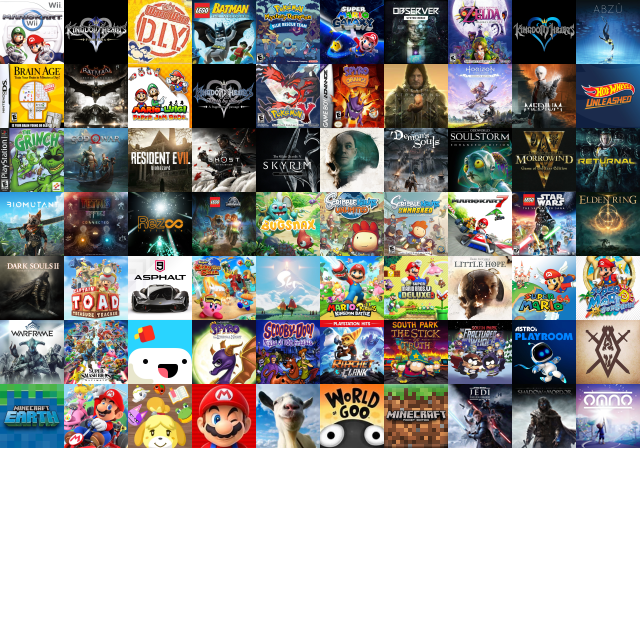
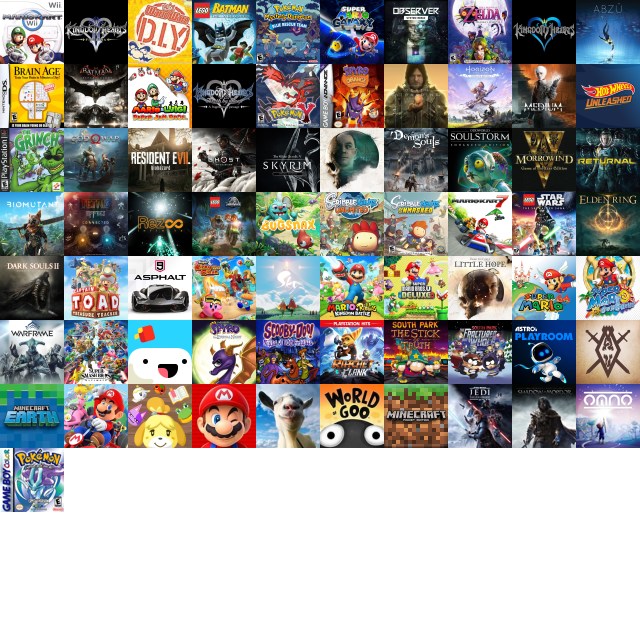
Update game records
Added Pokemon Crystal for GBC and (finally) completed Elden Ring

Changed region(s): [[0.0, 0.6875, 0.125, 0.8125]]

diff --git a/resources/css/game-records.css b/resources/css/game-records.css
@@ -1,1 +1,1 @@
-div.gamecard-container{display:flex;flex-direction:row;flex-wrap:wrap;align-items:center}div.gamecard-outer>img{height:64px;width:64px;box-shadow:0 0 4px #000}span.gamecard-title{font-size:16px;font-weight:700;padding-top:8px;text-align:center}span.gamecard-title>img{margin-left:4px}span.gamecard-subtext{font-size:12px;font-style:italic}div.gamecard{width:180px;padding:16px 16px 8px 16px;margin-right:24px;margin-bottom:24px;height:fit-content}div.gamecard-inner{justify-content:center;margin-left:8px}div.gamecard,div.gamecard-inner{flex-direction:column}div.gamecard-outer,span.gamecard-rating{flex-direction:row}a.qn-link{margin-right:10px}div.stat-container{display:flex;flex-direction:row}div.stat{margin-right:28px}@media screen and (max-width:1072px){div.stat-container{flex-direction:column}}img#i000203{background:url(/resources/png/icons.png) -192px -128px}img#i000201{background:url(/resources/png/icons.png) -64px -128px}img#i000307{background:url(/resources/png/icons.png) -448px -192px}img#i010009{background:url(/resources/png/icons2.png) -576px 0px}img#i010602{background:url(/resources/png/icons2.png) -128px -384px}img#i010402{background:url(/resources/png/icons2.png) -128px -256px}img#i010508{background:url(/resources/png/icons2.png) -512px -320px}img#i000601{background:url(/resources/png/icons.png) -64px -384px}img#i010101{background:url(/resources/png/icons2.png) -64px -64px}img#i010300{background:url(/resources/png/icons2.png) 0px -192px}img#i000000{background:url(/resources/png/icons.png) 0px 0px}img#i010100{background:url(/resources/png/icons2.png) 0px -64px}img#i000400{background:url(/resources/png/icons.png) 0px -256px}img#i010304{background:url(/resources/png/icons2.png) -256px -192px}img#i010401{background:url(/resources/png/icons2.png) -64px -256px}img#i000605{background:url(/resources/png/icons.png) -320px -384px}img#i000309{background:url(/resources/png/icons.png) -576px -192px}img#i000607{background:url(/resources/png/icons.png) -448px -384px}img#i000800{background:url(/resources/png/icons.png) 0px -512px}img#i000509{background:url(/resources/png/icons.png) -576px -320px}img#i000006{background:url(/resources/png/icons.png) -384px 0px}img#i010400{background:url(/resources/png/icons2.png) 0px -256px}img#i010106{background:url(/resources/png/icons2.png) -384px -64px}img#i010206{background:url(/resources/png/icons2.png) -384px -128px}img#i000102{background:url(/resources/png/icons.png) -128px -64px}img#i000305{background:url(/resources/png/icons.png) -320px -192px}img#i000507{background:url(/resources/png/icons.png) -448px -320px}img#i010309{background:url(/resources/png/icons2.png) -576px -192px}img#i000909{background:url(/resources/png/icons.png) -576px -576px}img#i000903{background:url(/resources/png/icons.png) -192px -576px}img#i000008{background:url(/resources/png/icons.png) -512px 0px}img#i010502{background:url(/resources/png/icons2.png) -128px -320px}img#i000205{background:url(/resources/png/icons.png) -320px -128px}img#i000708{background:url(/resources/png/icons.png) -512px -448px}img#i010203{background:url(/resources/png/icons2.png) -192px -128px}img#i010604{background:url(/resources/png/icons2.png) -256px -384px}img#i010201{background:url(/resources/png/icons2.png) -64px -128px}img#i000402{background:url(/resources/png/icons.png) -128px -256px}img#i000100{background:url(/resources/png/icons.png) 0px -64px}img#i000709{background:url(/resources/png/icons.png) -576px -448px}img#i010107{background:url(/resources/png/icons2.png) -448px -64px}img#i010109{background:url(/resources/png/icons2.png) -576px -64px}img#i000405{background:url(/resources/png/icons.png) -320px -256px}img#i000702{background:url(/resources/png/icons.png) -128px -448px}img#i010008{background:url(/resources/png/icons2.png) -512px 0px}img#i010103{background:url(/resources/png/icons2.png) -192px -64px}img#i000300{background:url(/resources/png/icons.png) 0px -192px}img#i000306{background:url(/resources/png/icons.png) -384px -192px}img#i000902{background:url(/resources/png/icons.png) -128px -576px}img#i000108{background:url(/resources/png/icons.png) -512px -64px}img#i000807{background:url(/resources/png/icons.png) -448px -512px}img#i000007{background:url(/resources/png/icons.png) -448px 0px}img#i010001{background:url(/resources/png/icons2.png) -64px 0px}img#i000506{background:url(/resources/png/icons.png) -384px -320px}img#i000609{background:url(/resources/png/icons.png) -576px -384px}img#i000404{background:url(/resources/png/icons.png) -256px -256px}img#i000107{background:url(/resources/png/icons.png) -448px -64px}img#i010003{background:url(/resources/png/icons2.png) -192px 0px}img#i000900{background:url(/resources/png/icons.png) 0px -576px}img#i000901{background:url(/resources/png/icons.png) -64px -576px}img#i000207{background:url(/resources/png/icons.png) -448px -128px}img#i010303{background:url(/resources/png/icons2.png) -192px -192px}img#i000004{background:url(/resources/png/icons.png) -256px 0px}img#i000500{background:url(/resources/png/icons.png) 0px -320px}img#i000706{background:url(/resources/png/icons.png) -384px -448px}img#i010308{background:url(/resources/png/icons2.png) -512px -192px}img#i000804{background:url(/resources/png/icons.png) -256px -512px}img#i000905{background:url(/resources/png/icons.png) -320px -576px}img#i000805{background:url(/resources/png/icons.png) -320px -512px}img#i000508{background:url(/resources/png/icons.png) -512px -320px}img#i010102{background:url(/resources/png/icons2.png) -128px -64px}img#i010405{background:url(/resources/png/icons2.png) -320px -256px}img#i010307{background:url(/resources/png/icons2.png) -448px -192px}img#i000704{background:url(/resources/png/icons.png) -256px -448px}img#i000200{background:url(/resources/png/icons.png) 0px -128px}img#i010601{background:url(/resources/png/icons2.png) -64px -384px}img#i010000{background:url(/resources/png/icons2.png) 0px 0px}img#i000105{background:url(/resources/png/icons.png) -320px -64px}img#i000908{background:url(/resources/png/icons.png) -512px -576px}img#i000403{background:url(/resources/png/icons.png) -192px -256px}img#i010608{background:url(/resources/png/icons2.png) -512px -384px}img#i000209{background:url(/resources/png/icons.png) -576px -128px}img#i010600{background:url(/resources/png/icons2.png) 0px -384px}img#i010606{background:url(/resources/png/icons2.png) -384px -384px}img#i000003{background:url(/resources/png/icons.png) -192px 0px}img#i000005{background:url(/resources/png/icons.png) -320px 0px}img#i000409{background:url(/resources/png/icons.png) -576px -256px}img#i010406{background:url(/resources/png/icons2.png) -384px -256px}img#i000701{background:url(/resources/png/icons.png) -64px -448px}img#i000604{background:url(/resources/png/icons.png) -256px -384px}img#i010006{background:url(/resources/png/icons2.png) -384px 0px}img#i010207{background:url(/resources/png/icons2.png) -448px -128px}img#i010609{background:url(/resources/png/icons2.png) -576px -384px}img#i000703{background:url(/resources/png/icons.png) -192px -448px}img#i000504{background:url(/resources/png/icons.png) -256px -320px}img#i000501{background:url(/resources/png/icons.png) -64px -320px}img#i000002{background:url(/resources/png/icons.png) -128px 0px}img#i000606{background:url(/resources/png/icons.png) -384px -384px}img#i010004{background:url(/resources/png/icons2.png) -256px 0px}img#i010104{background:url(/resources/png/icons2.png) -256px -64px}img#i000009{background:url(/resources/png/icons.png) -576px 0px}img#i000801{background:url(/resources/png/icons.png) -64px -512px}img#i010505{background:url(/resources/png/icons2.png) -320px -320px}img#i000808{background:url(/resources/png/icons.png) -512px -512px}img#i010202{background:url(/resources/png/icons2.png) -128px -128px}img#i000503{background:url(/resources/png/icons.png) -192px -320px}img#i010209{background:url(/resources/png/icons2.png) -576px -128px}img#i010302{background:url(/resources/png/icons2.png) -128px -192px}img#i000406{background:url(/resources/png/icons.png) -384px -256px}img#i010504{background:url(/resources/png/icons2.png) -256px -320px}img#i000705{background:url(/resources/png/icons.png) -320px -448px}img#i010305{background:url(/resources/png/icons2.png) -320px -192px}img#i010306{background:url(/resources/png/icons2.png) -384px -192px}img#i000904{background:url(/resources/png/icons.png) -256px -576px}img#i010404{background:url(/resources/png/icons2.png) -256px -256px}img#i000301{background:url(/resources/png/icons.png) -64px -192px}img#i010507{background:url(/resources/png/icons2.png) -448px -320px}img#i010506{background:url(/resources/png/icons2.png) -384px -320px}img#i000505{background:url(/resources/png/icons.png) -320px -320px}img#i010105{background:url(/resources/png/icons2.png) -320px -64px}img#i000806{background:url(/resources/png/icons.png) -384px -512px}img#i000202{background:url(/resources/png/icons.png) -128px -128px}img#i000407{background:url(/resources/png/icons.png) -448px -256px}img#i000907{background:url(/resources/png/icons.png) -448px -576px}img#i010607{background:url(/resources/png/icons2.png) -448px -384px}img#i000602{background:url(/resources/png/icons.png) -128px -384px}img#i010403{background:url(/resources/png/icons2.png) -192px -256px}img#i010408{background:url(/resources/png/icons2.png) -512px -256px}img#i000206{background:url(/resources/png/icons.png) -384px -128px}img#i010005{background:url(/resources/png/icons2.png) -320px 0px}img#i000802{background:url(/resources/png/icons.png) -128px -512px}img#i000001{background:url(/resources/png/icons.png) -64px 0px}img#i010603{background:url(/resources/png/icons2.png) -192px -384px}img#i010409{background:url(/resources/png/icons2.png) -576px -256px}img#i000603{background:url(/resources/png/icons.png) -192px -384px}img#i000809{background:url(/resources/png/icons.png) -576px -512px}img#i010501{background:url(/resources/png/icons2.png) -64px -320px}img#i010301{background:url(/resources/png/icons2.png) -64px -192px}img#i000204{background:url(/resources/png/icons.png) -256px -128px}img#i010407{background:url(/resources/png/icons2.png) -448px -256px}img#i010205{background:url(/resources/png/icons2.png) -320px -128px}img#i010208{background:url(/resources/png/icons2.png) -512px -128px}img#i010204{background:url(/resources/png/icons2.png) -256px -128px}img#i010509{background:url(/resources/png/icons2.png) -576px -320px}img#i010200{background:url(/resources/png/icons2.png) 0px -128px}img#i000308{background:url(/resources/png/icons.png) -512px -192px}img#i000600{background:url(/resources/png/icons.png) 0px -384px}img#i000103{background:url(/resources/png/icons.png) -192px -64px}img#i000304{background:url(/resources/png/icons.png) -256px -192px}img#i010503{background:url(/resources/png/icons2.png) -192px -320px}img#i000502{background:url(/resources/png/icons.png) -128px -320px}img#i000803{background:url(/resources/png/icons.png) -192px -512px}img#i000608{background:url(/resources/png/icons.png) -512px -384px}img#i010007{background:url(/resources/png/icons2.png) -448px 0px}img#i000109{background:url(/resources/png/icons.png) -576px -64px}img#i000101{background:url(/resources/png/icons.png) -64px -64px}img#i000401{background:url(/resources/png/icons.png) -64px -256px}img#i000707{background:url(/resources/png/icons.png) -448px -448px}img#i000303{background:url(/resources/png/icons.png) -192px -192px}img#i010108{background:url(/resources/png/icons2.png) -512px -64px}img#i000208{background:url(/resources/png/icons.png) -512px -128px}img#i000408{background:url(/resources/png/icons.png) -512px -256px}img#i000700{background:url(/resources/png/icons.png) 0px -448px}img#i010002{background:url(/resources/png/icons2.png) -128px 0px}img#i010500{background:url(/resources/png/icons2.png) 0px -320px}img#i000106{background:url(/resources/png/icons.png) -384px -64px}img#i000104{background:url(/resources/png/icons.png) -256px -64px}img#i000906{background:url(/resources/png/icons.png) -384px -576px}img#i010605{background:url(/resources/png/icons2.png) -320px -384px}
+div.gamecard-container{display:flex;flex-direction:row;flex-wrap:wrap;align-items:center}div.gamecard-outer>img{height:64px;width:64px;box-shadow:0 0 4px #000}span.gamecard-title{font-size:16px;font-weight:700;padding-top:8px;text-align:center}span.gamecard-title>img{margin-left:4px}span.gamecard-subtext{font-size:12px;font-style:italic}div.gamecard{width:180px;padding:16px 16px 8px 16px;margin-right:24px;margin-bottom:24px;height:fit-content}div.gamecard-inner{justify-content:center;margin-left:8px}div.gamecard,div.gamecard-inner{flex-direction:column}div.gamecard-outer,span.gamecard-rating{flex-direction:row}a.qn-link{margin-right:10px}div.stat-container{display:flex;flex-direction:row}div.stat{margin-right:28px}@media screen and (max-width:1072px){div.stat-container{flex-direction:column}}img#i000203{background:url(/resources/png/icons.png) -192px -128px}img#i000201{background:url(/resources/png/icons.png) -64px -128px}img#i000307{background:url(/resources/png/icons.png) -448px -192px}img#i010009{background:url(/resources/png/icons2.png) -576px 0px}img#i010602{background:url(/resources/png/icons2.png) -128px -384px}img#i010402{background:url(/resources/png/icons2.png) -128px -256px}img#i010508{background:url(/resources/png/icons2.png) -512px -320px}img#i000601{background:url(/resources/png/icons.png) -64px -384px}img#i010101{background:url(/resources/png/icons2.png) -64px -64px}img#i010300{background:url(/resources/png/icons2.png) 0px -192px}img#i000000{background:url(/resources/png/icons.png) 0px 0px}img#i010100{background:url(/resources/png/icons2.png) 0px -64px}img#i000400{background:url(/resources/png/icons.png) 0px -256px}img#i010304{background:url(/resources/png/icons2.png) -256px -192px}img#i010401{background:url(/resources/png/icons2.png) -64px -256px}img#i000605{background:url(/resources/png/icons.png) -320px -384px}img#i000309{background:url(/resources/png/icons.png) -576px -192px}img#i000607{background:url(/resources/png/icons.png) -448px -384px}img#i000800{background:url(/resources/png/icons.png) 0px -512px}img#i000509{background:url(/resources/png/icons.png) -576px -320px}img#i000006{background:url(/resources/png/icons.png) -384px 0px}img#i010400{background:url(/resources/png/icons2.png) 0px -256px}img#i010106{background:url(/resources/png/icons2.png) -384px -64px}img#i010206{background:url(/resources/png/icons2.png) -384px -128px}img#i000102{background:url(/resources/png/icons.png) -128px -64px}img#i000305{background:url(/resources/png/icons.png) -320px -192px}img#i000507{background:url(/resources/png/icons.png) -448px -320px}img#i010309{background:url(/resources/png/icons2.png) -576px -192px}img#i000909{background:url(/resources/png/icons.png) -576px -576px}img#i000903{background:url(/resources/png/icons.png) -192px -576px}img#i000008{background:url(/resources/png/icons.png) -512px 0px}img#i010502{background:url(/resources/png/icons2.png) -128px -320px}img#i000205{background:url(/resources/png/icons.png) -320px -128px}img#i000708{background:url(/resources/png/icons.png) -512px -448px}img#i010203{background:url(/resources/png/icons2.png) -192px -128px}img#i010604{background:url(/resources/png/icons2.png) -256px -384px}img#i010201{background:url(/resources/png/icons2.png) -64px -128px}img#i000402{background:url(/resources/png/icons.png) -128px -256px}img#i000100{background:url(/resources/png/icons.png) 0px -64px}img#i000709{background:url(/resources/png/icons.png) -576px -448px}img#i010107{background:url(/resources/png/icons2.png) -448px -64px}img#i010109{background:url(/resources/png/icons2.png) -576px -64px}img#i000405{background:url(/resources/png/icons.png) -320px -256px}img#i000702{background:url(/resources/png/icons.png) -128px -448px}img#i010008{background:url(/resources/png/icons2.png) -512px 0px}img#i010103{background:url(/resources/png/icons2.png) -192px -64px}img#i000300{background:url(/resources/png/icons.png) 0px -192px}img#i000306{background:url(/resources/png/icons.png) -384px -192px}img#i000902{background:url(/resources/png/icons.png) -128px -576px}img#i000108{background:url(/resources/png/icons.png) -512px -64px}img#i000807{background:url(/resources/png/icons.png) -448px -512px}img#i000007{background:url(/resources/png/icons.png) -448px 0px}img#i010001{background:url(/resources/png/icons2.png) -64px 0px}img#i000506{background:url(/resources/png/icons.png) -384px -320px}img#i000609{background:url(/resources/png/icons.png) -576px -384px}img#i000404{background:url(/resources/png/icons.png) -256px -256px}img#i000107{background:url(/resources/png/icons.png) -448px -64px}img#i010003{background:url(/resources/png/icons2.png) -192px 0px}img#i000900{background:url(/resources/png/icons.png) 0px -576px}img#i000901{background:url(/resources/png/icons.png) -64px -576px}img#i000207{background:url(/resources/png/icons.png) -448px -128px}img#i010303{background:url(/resources/png/icons2.png) -192px -192px}img#i000004{background:url(/resources/png/icons.png) -256px 0px}img#i000500{background:url(/resources/png/icons.png) 0px -320px}img#i000706{background:url(/resources/png/icons.png) -384px -448px}img#i010308{background:url(/resources/png/icons2.png) -512px -192px}img#i000804{background:url(/resources/png/icons.png) -256px -512px}img#i000905{background:url(/resources/png/icons.png) -320px -576px}img#i000805{background:url(/resources/png/icons.png) -320px -512px}img#i000508{background:url(/resources/png/icons.png) -512px -320px}img#i010102{background:url(/resources/png/icons2.png) -128px -64px}img#i010405{background:url(/resources/png/icons2.png) -320px -256px}img#i010307{background:url(/resources/png/icons2.png) -448px -192px}img#i000704{background:url(/resources/png/icons.png) -256px -448px}img#i000200{background:url(/resources/png/icons.png) 0px -128px}img#i010601{background:url(/resources/png/icons2.png) -64px -384px}img#i010000{background:url(/resources/png/icons2.png) 0px 0px}img#i000105{background:url(/resources/png/icons.png) -320px -64px}img#i000908{background:url(/resources/png/icons.png) -512px -576px}img#i000403{background:url(/resources/png/icons.png) -192px -256px}img#i010608{background:url(/resources/png/icons2.png) -512px -384px}img#i000209{background:url(/resources/png/icons.png) -576px -128px}img#i010600{background:url(/resources/png/icons2.png) 0px -384px}img#i010606{background:url(/resources/png/icons2.png) -384px -384px}img#i000003{background:url(/resources/png/icons.png) -192px 0px}img#i000005{background:url(/resources/png/icons.png) -320px 0px}img#i000409{background:url(/resources/png/icons.png) -576px -256px}img#i010406{background:url(/resources/png/icons2.png) -384px -256px}img#i000701{background:url(/resources/png/icons.png) -64px -448px}img#i000604{background:url(/resources/png/icons.png) -256px -384px}img#i010006{background:url(/resources/png/icons2.png) -384px 0px}img#i010207{background:url(/resources/png/icons2.png) -448px -128px}img#i010609{background:url(/resources/png/icons2.png) -576px -384px}img#i000703{background:url(/resources/png/icons.png) -192px -448px}img#i000504{background:url(/resources/png/icons.png) -256px -320px}img#i000501{background:url(/resources/png/icons.png) -64px -320px}img#i000002{background:url(/resources/png/icons.png) -128px 0px}img#i000606{background:url(/resources/png/icons.png) -384px -384px}img#i010700{background:url(/resources/png/icons2.png) 0px -448px}img#i010004{background:url(/resources/png/icons2.png) -256px 0px}img#i010104{background:url(/resources/png/icons2.png) -256px -64px}img#i000009{background:url(/resources/png/icons.png) -576px 0px}img#i000801{background:url(/resources/png/icons.png) -64px -512px}img#i010505{background:url(/resources/png/icons2.png) -320px -320px}img#i000808{background:url(/resources/png/icons.png) -512px -512px}img#i010202{background:url(/resources/png/icons2.png) -128px -128px}img#i000503{background:url(/resources/png/icons.png) -192px -320px}img#i010209{background:url(/resources/png/icons2.png) -576px -128px}img#i010302{background:url(/resources/png/icons2.png) -128px -192px}img#i000406{background:url(/resources/png/icons.png) -384px -256px}img#i010504{background:url(/resources/png/icons2.png) -256px -320px}img#i000705{background:url(/resources/png/icons.png) -320px -448px}img#i010305{background:url(/resources/png/icons2.png) -320px -192px}img#i010306{background:url(/resources/png/icons2.png) -384px -192px}img#i000904{background:url(/resources/png/icons.png) -256px -576px}img#i010404{background:url(/resources/png/icons2.png) -256px -256px}img#i000301{background:url(/resources/png/icons.png) -64px -192px}img#i010507{background:url(/resources/png/icons2.png) -448px -320px}img#i010506{background:url(/resources/png/icons2.png) -384px -320px}img#i000505{background:url(/resources/png/icons.png) -320px -320px}img#i010105{background:url(/resources/png/icons2.png) -320px -64px}img#i000806{background:url(/resources/png/icons.png) -384px -512px}img#i000202{background:url(/resources/png/icons.png) -128px -128px}img#i000407{background:url(/resources/png/icons.png) -448px -256px}img#i000907{background:url(/resources/png/icons.png) -448px -576px}img#i010607{background:url(/resources/png/icons2.png) -448px -384px}img#i000602{background:url(/resources/png/icons.png) -128px -384px}img#i010403{background:url(/resources/png/icons2.png) -192px -256px}img#i010408{background:url(/resources/png/icons2.png) -512px -256px}img#i000206{background:url(/resources/png/icons.png) -384px -128px}img#i010005{background:url(/resources/png/icons2.png) -320px 0px}img#i000802{background:url(/resources/png/icons.png) -128px -512px}img#i000001{background:url(/resources/png/icons.png) -64px 0px}img#i010603{background:url(/resources/png/icons2.png) -192px -384px}img#i010409{background:url(/resources/png/icons2.png) -576px -256px}img#i000603{background:url(/resources/png/icons.png) -192px -384px}img#i000809{background:url(/resources/png/icons.png) -576px -512px}img#i010501{background:url(/resources/png/icons2.png) -64px -320px}img#i010301{background:url(/resources/png/icons2.png) -64px -192px}img#i000204{background:url(/resources/png/icons.png) -256px -128px}img#i010407{background:url(/resources/png/icons2.png) -448px -256px}img#i010205{background:url(/resources/png/icons2.png) -320px -128px}img#i010208{background:url(/resources/png/icons2.png) -512px -128px}img#i010204{background:url(/resources/png/icons2.png) -256px -128px}img#i010509{background:url(/resources/png/icons2.png) -576px -320px}img#i010200{background:url(/resources/png/icons2.png) 0px -128px}img#i000308{background:url(/resources/png/icons.png) -512px -192px}img#i000600{background:url(/resources/png/icons.png) 0px -384px}img#i000103{background:url(/resources/png/icons.png) -192px -64px}img#i000304{background:url(/resources/png/icons.png) -256px -192px}img#i010503{background:url(/resources/png/icons2.png) -192px -320px}img#i000502{background:url(/resources/png/icons.png) -128px -320px}img#i000803{background:url(/resources/png/icons.png) -192px -512px}img#i000608{background:url(/resources/png/icons.png) -512px -384px}img#i010007{background:url(/resources/png/icons2.png) -448px 0px}img#i000109{background:url(/resources/png/icons.png) -576px -64px}img#i000101{background:url(/resources/png/icons.png) -64px -64px}img#i000401{background:url(/resources/png/icons.png) -64px -256px}img#i000707{background:url(/resources/png/icons.png) -448px -448px}img#i000303{background:url(/resources/png/icons.png) -192px -192px}img#i010108{background:url(/resources/png/icons2.png) -512px -64px}img#i000208{background:url(/resources/png/icons.png) -512px -128px}img#i000408{background:url(/resources/png/icons.png) -512px -256px}img#i000700{background:url(/resources/png/icons.png) 0px -448px}img#i010002{background:url(/resources/png/icons2.png) -128px 0px}img#i010500{background:url(/resources/png/icons2.png) 0px -320px}img#i000106{background:url(/resources/png/icons.png) -384px -64px}img#i000104{background:url(/resources/png/icons.png) -256px -64px}img#i000906{background:url(/resources/png/icons.png) -384px -576px}img#i010605{background:url(/resources/png/icons2.png) -320px -384px}

diff --git a/_pages/game-records.html b/_pages/game-records.html
@@ -3,7 +3,7 @@ permalink: /game-records/
 layout: wnesenior
 title: Game Records
 base_url: /
-last_updated: February 1, 2023 at 2:10 PM
+last_updated: February 4, 2023 at 7:39 PM
 ---
 
 <!-- Generated by https://github.com/egartley/game-records !-->
@@ -17,22 +17,22 @@ PS1/PS2 (28)<br>
 Switch (16)<br>
 Wii (11)<br>
 PC (5)<br>
-Other (16)</div>
+Other (17)</div>
 <div class="stat">
 <span class="bold">Ratings</span><br>
 5 stars (18)<br>
 4.5 stars (21)<br>
 4 stars (35)<br>
 3.5 stars (40)<br>
-3 stars (32)<br>
+3 stars (33)<br>
 2.5 stars (17)<br>
 2 stars or below (6)</div>
 <div class="stat">
 <span class="bold">Completion</span><br>
-100% Complete (59)<br>
-Platinum Trophy (28)</div>
+100% Complete (60)<br>
+Platinum Trophy (29)</div>
 </div>
-<p>Total games: 169</p>
+<p>Total games: 170</p>
 <h2>Quick Navigation</h2>
 <p>
 <a class="qn-link" href="#qn-num">#</a>
@@ -350,7 +350,7 @@ Platinum Trophy (28)</div>
 <span class="gamecard-rating flex"><img src="/resources/gif/star-filled.gif"><img src="/resources/gif/star-filled.gif"><img src="/resources/gif/star-filled.gif"><img src="/resources/gif/star-filled.gif"><img src="/resources/gif/star-filled.gif"></span>
 </div>
 </div>
-<span class="gamecard-title">Elden Ring</span>
+<span class="gamecard-title">Elden Ring <img id="100" alt="100" src="/resources/png/100.png"><img id="plat" alt="plat" src="/resources/png/plat.png"></span>
 </div><div class="gamecard flex card">
 <div class="gamecard-outer flex">
 <img id="i000909" alt="icon" src="/resources/png/blank.png">
@@ -1062,6 +1062,16 @@ Platinum Trophy (28)</div>
 </div>
 </div>
 <span class="gamecard-title">Paper Mario: The Thousand-Year Door</span>
+</div><div class="gamecard flex card">
+<div class="gamecard-outer flex">
+<img id="i010700" alt="icon" src="/resources/png/blank.png">
+<div class="gamecard-inner flex">
+<span class="gamecard-subtext">2000</span>
+<span class="gamecard-subtext">Game Boy Color</span>
+<span class="gamecard-rating flex"><img src="/resources/gif/star-filled.gif"><img src="/resources/gif/star-filled.gif"><img src="/resources/gif/star-filled.gif"><img src="/resources/gif/star-empty.gif"><img src="/resources/gif/star-empty.gif"></span>
+</div>
+</div>
+<span class="gamecard-title">Pokemon Crystal</span>
 </div><div class="gamecard flex card">
 <div class="gamecard-outer flex">
 <img id="i010004" alt="icon" src="/resources/png/blank.png">
